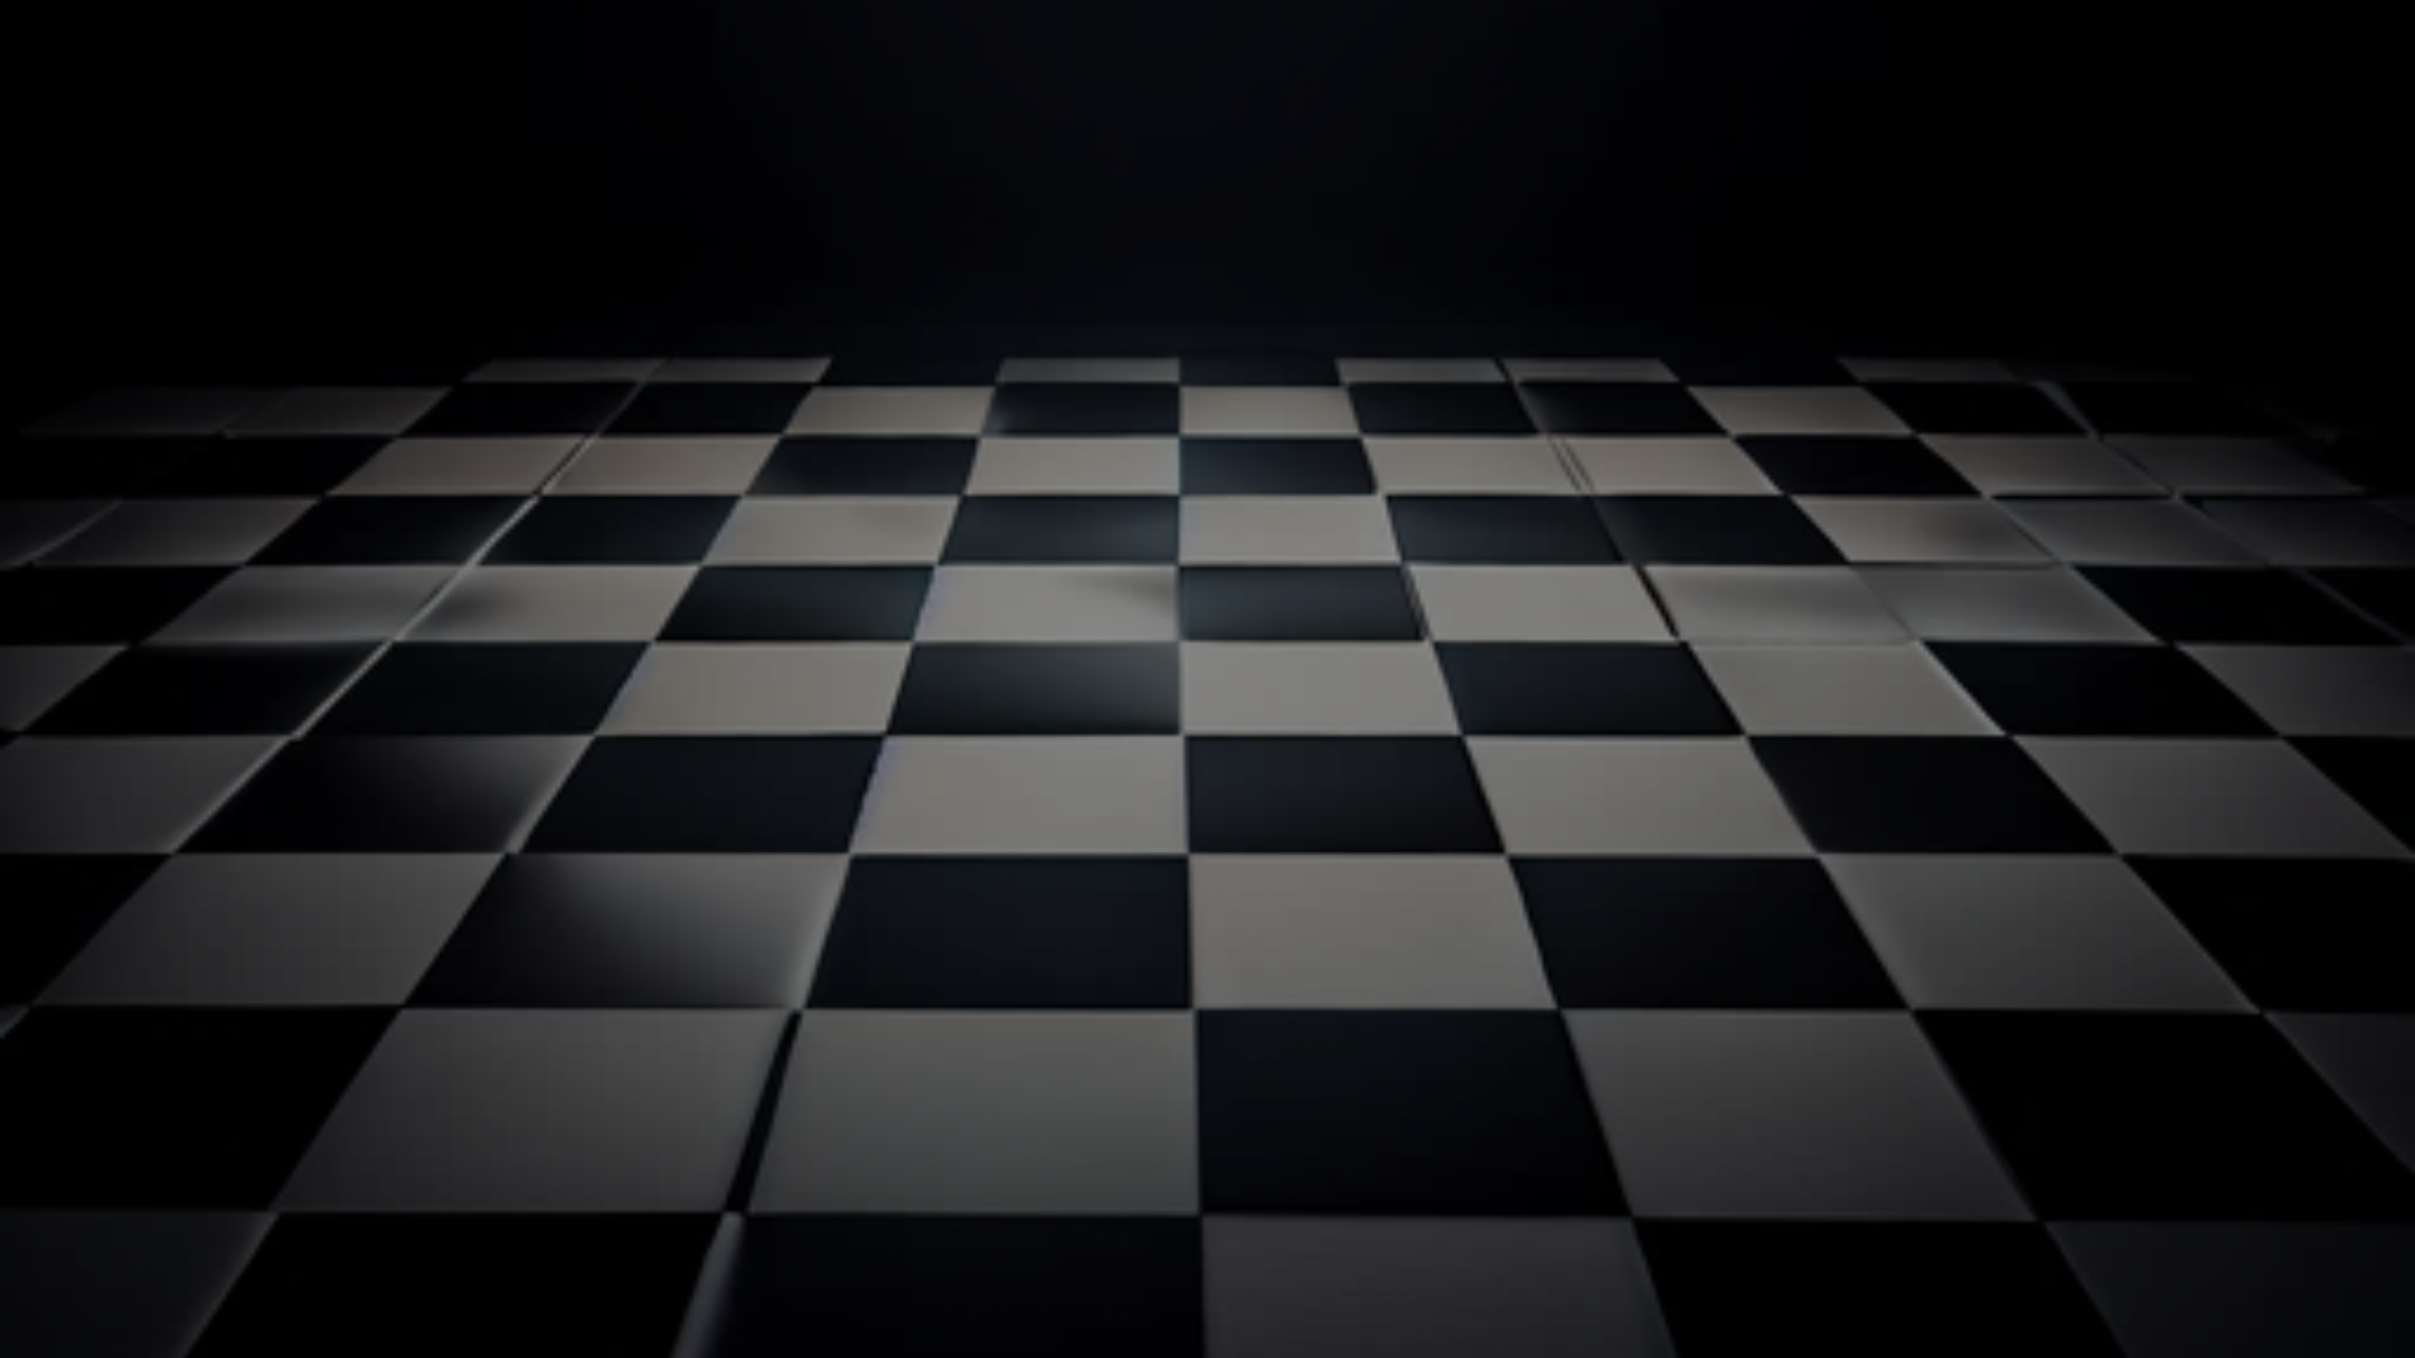
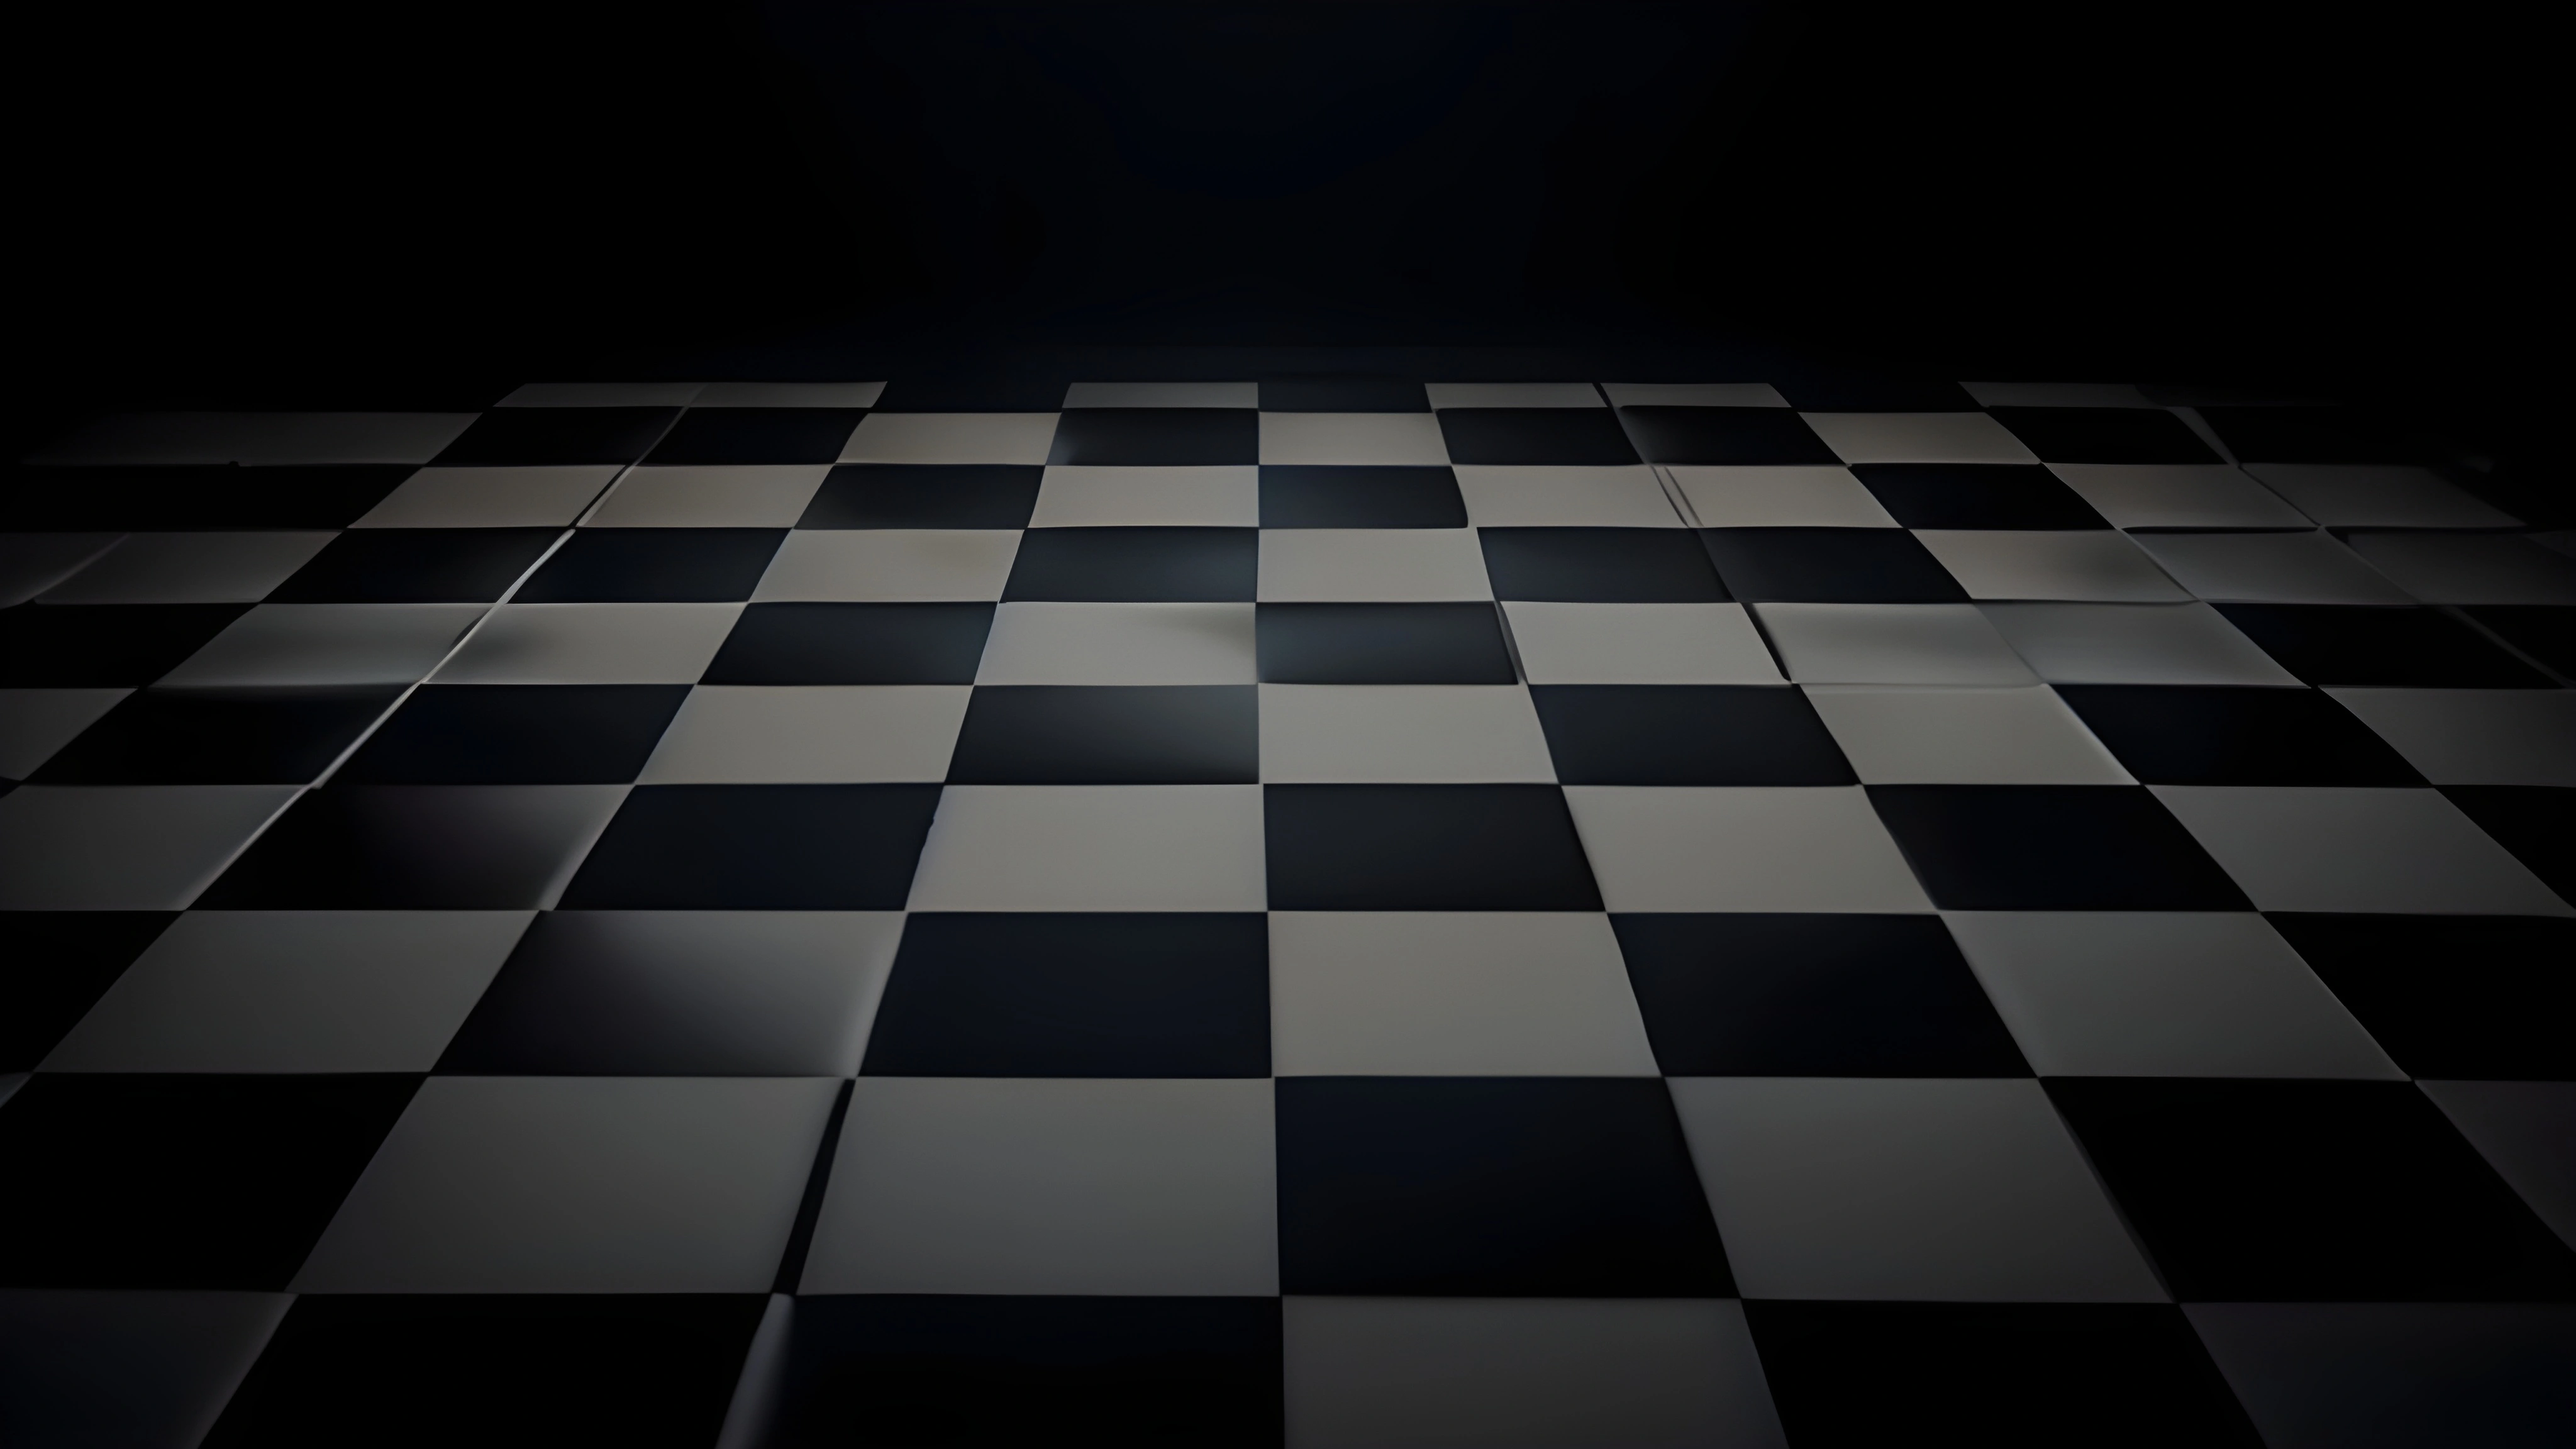
optimised images for faster loads

diff --git a/src/pages/home.js b/src/pages/home.js
@@ -6,7 +6,7 @@ import Grid from '@mui/material/Grid2';
 import Typography from '@mui/material/Typography';
 import Button from '@mui/material/Button';
 import Hidden from '@mui/material/Hidden';
-import chessBoard from '../assets/chessboard.jpeg';
+import chessBoard from '../assets/chessboard.webp';
 import Template from '../components/template';
 
 // Grid Container

diff --git a/src/components/template.js b/src/components/template.js
@@ -3,7 +3,7 @@ import { styled } from '@mui/material/styles';
 import Paper from '@mui/material/Paper';
 import Box from '@mui/material/Box';
 import Header from './header';
-import BackgroundImg from '../assets/chessbg.png';
+import BackgroundImg from '../assets/chessbg.webp';
 import Footer from './footer';
 
 // Container (background image)
